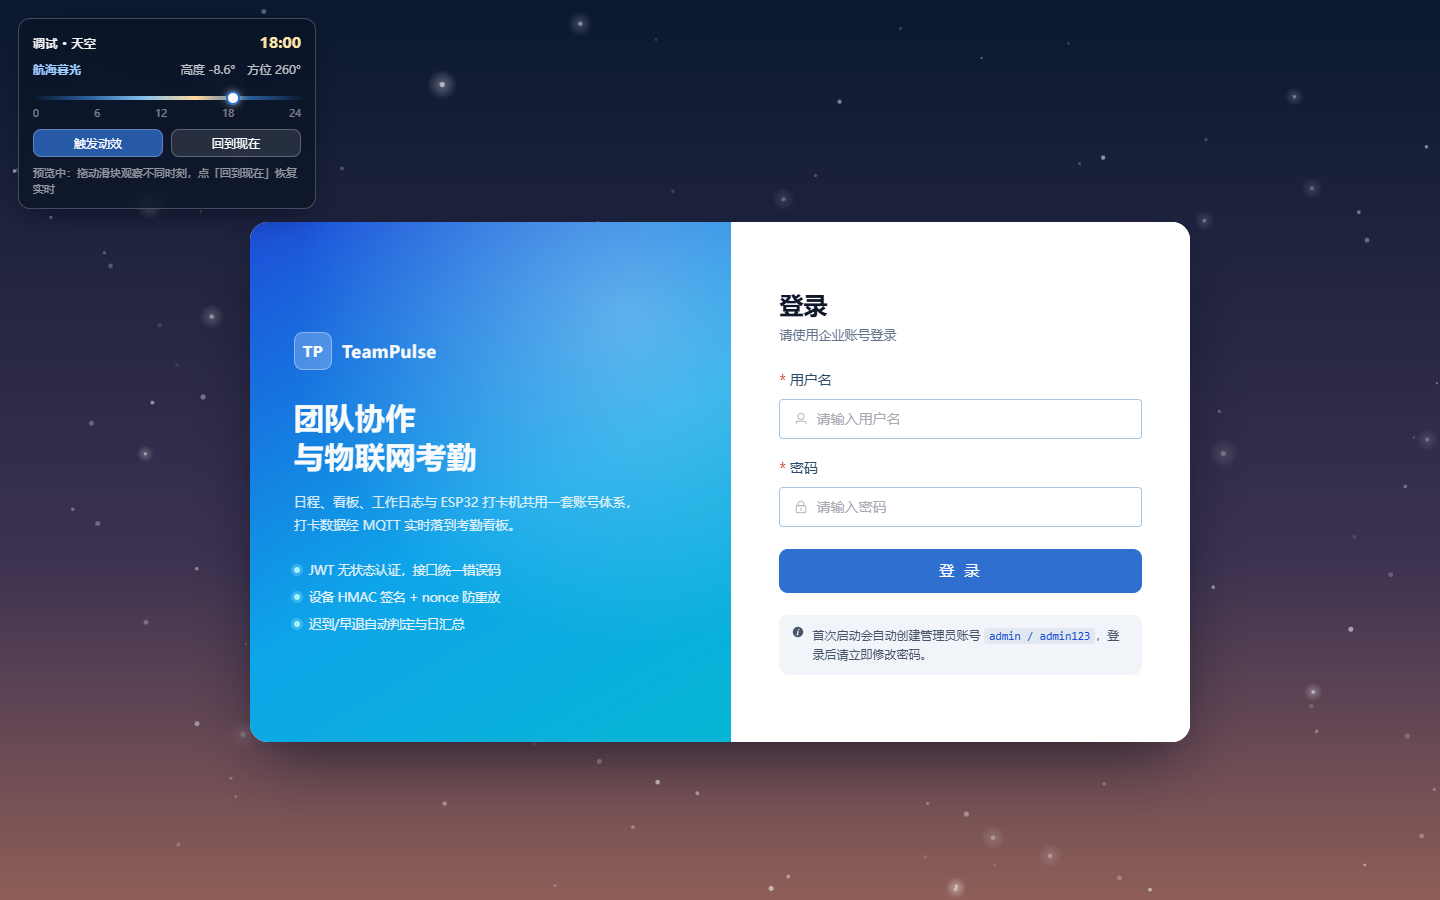
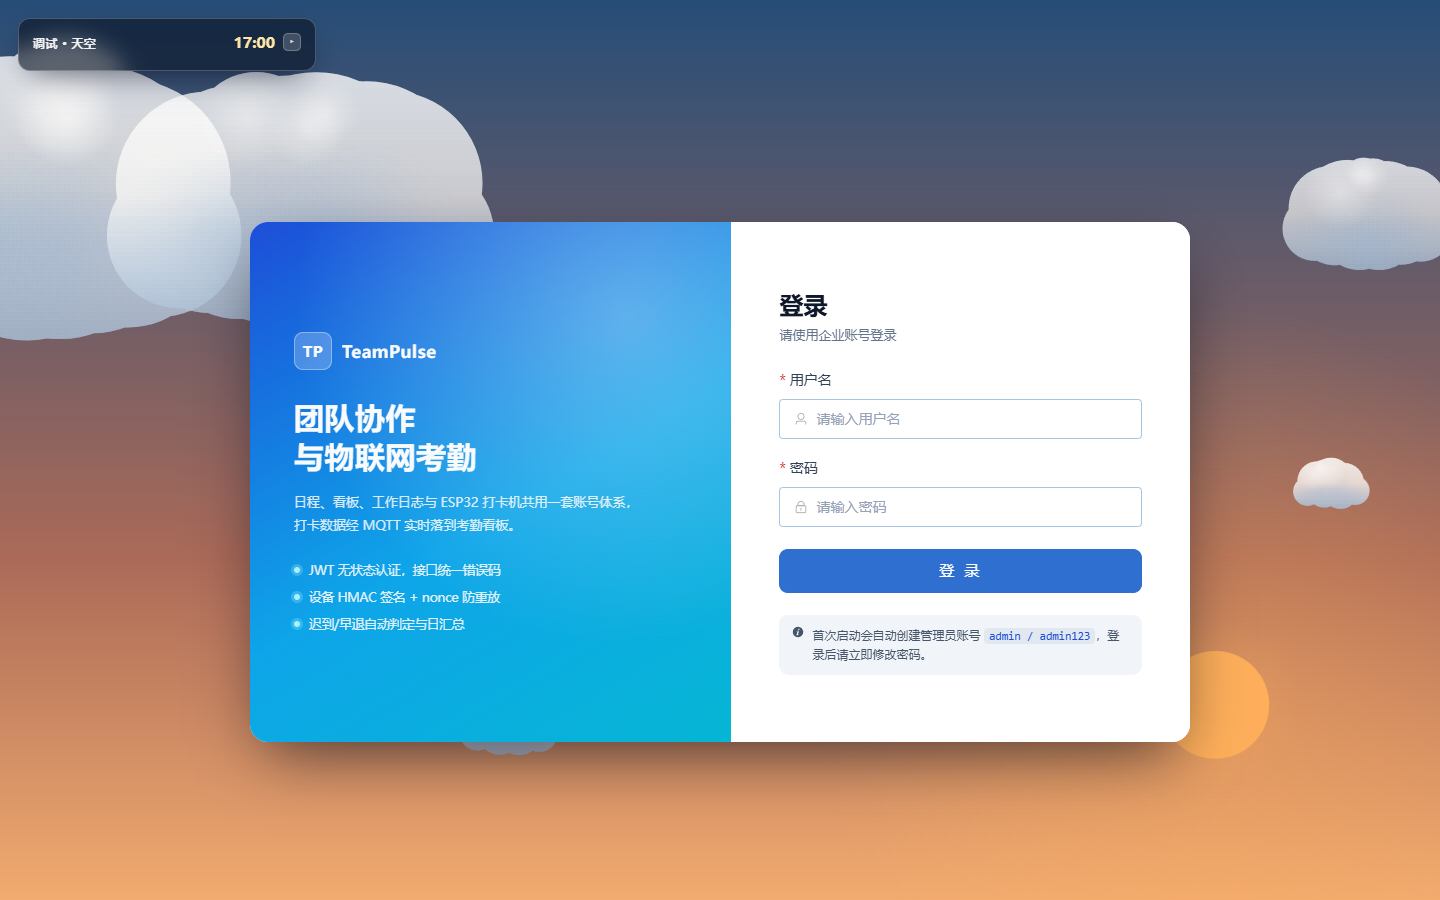
feat(login): 云按参考图重绘（多小圆 + 内部反光/阴影）；太阳与月亮走同一条圆弧
## 1. 云：动漫式积云
参考图像的特征是「一朵云由很多小圆堆成、顶部纯白、底部带蓝色天空反光与阴影」。
原来逐个小圆画径向渐变，叠出来是一团雾。现在改成**单轮廓 + 内部渐变**：

- 造型：三层小圆
    底排 4~9 个（底边齐平，形成平底）
    中排 3~8 个（错开半个间距，堆出体积）
    顶排 1~3 个「鼓包」
  尺度分三档 18~32 / 38~74 / 86~150，小云放低处当远景点缀
- 渲染（每朵云一次路径 + 三次裁剪填充）：
    ① 所有小圆合成一条 Path2D → 竖向渐变填充（上纯白 → 下浅蓝 #accbe8）
    ② clip 到轮廓内 → 底部蓝色阴影 + 顶部白色反光（天空映在高光面上）
    ③ 最大的 7 个鼓包各补一小块底部阴影，做出"一朵朵"的分离感
    ④ 顶排 3 个鼓包补高光
- 云层透明度提到 0.86~1.0，比之前更实，接近参考图

## 2. 太阳与月亮走同一条圆弧
新增 ARC + arcPos()，两颗天体共用同一组参数与同一个公式：
    纵向：高度角 → 弧上角度（42° 及以上视为弧顶），再取 0.62 次幂抬高，
          使 9~15 点的太阳落在卡片上方而不是被挡住
    横向：方位角决定偏向（东=左 / 西=右），并用「离正南多远」控制横向偏移
          （正南在中线，正东/正西到两侧最远）
实测遮挡（卡片 940×520 @ (250,222)）：
    7:00 太阳 (229,676) ✓    9:00 (498,177) ✓    12:00 (721,47) ✓
    15:00 (949,185) ✓       17:00 (1215,705) ✓
    6:00 月亮 (984,88) ✓    21:00 (399,115) ✓    0:00 (720,39) ✓
    仅 7:00 月亮 (1188,227) 与卡片右上角重叠约 2px（视觉上在角外）

## 3. 调试卡片折叠
之前固定在左上会长期挡住月亮/太阳，加了 ▾/▸ 折叠按钮，折叠后只剩标题栏。

## 验证
tests/ui/probe-arc-clouds.mjs：9 个时刻的太阳/月亮坐标与遮挡逐一检查；
tests/ui/probe-final-sky.mjs：9/12/17 点整页截图（docs/screenshots/sky-*.png）
控制台无报错。

diff --git a/frontend/src/components/LoginSky.vue b/frontend/src/components/LoginSky.vue
@@ -18,7 +18,6 @@
 <script setup>
 import { computed, onBeforeUnmount, onMounted, ref } from 'vue'
 import {
-  azimuthToX,
   beijingDateAtHour,
   beijingHour,
   cloudAlpha,
@@ -112,41 +111,54 @@ function makeStar() {
   }
 }
 
-function makeCloud() {
-  // 云的尺度分三档，避免所有云一样大
-  const tier = Math.random()
-  const base = tier < 0.34 ? rand(22, 40) : tier < 0.74 ? rand(44, 78) : rand(84, 138)
+/**
+ * 动漫式积云：用较多小圆堆出轮廓
+ *   - 沿基线的"底排"圆：底边大致齐平，形成云的平底
+ *   - 中排更大，顶排 2~3 个"鼓包"，做出顶部起伏
+ *   - 每朵云尺度不同（22~150），小的做远景点缀
+ */
+function makeCloud(tierHint) {
+  const tier = tierHint ?? Math.random()
+  const base = tier < 0.3 ? rand(18, 32) : tier < 0.68 ? rand(38, 74) : rand(86, 150)
   const hx = rand(0, width)
-  // 主要分布在上半部与两侧，避开被中间卡片挡住的位置
-  const hy = rand(height * 0.05, height * 0.46)
+  // 小云偏低（远景点缀），大云偏中上
+  const hy = tier < 0.3 ? rand(height * 0.45, height * 0.8) : rand(height * 0.06, height * 0.5)
 
-  const n = tier < 0.34 ? 4 : tier < 0.74 ? 5 : 7
   const puffs = []
-  for (let i = 0; i < n; i++) {
-    const t = i / (n - 1) - 0.5 // -0.5 .. 0.5
-    // 中间大、两侧小：这是积云最典型的轮廓
-    const k = 0.45 + 0.55 * Math.cos(t * Math.PI * 0.92)
-    const r = base * k
-    puffs.push({
-      dx: t * base * 2.05 + rand(-2, 2),
-      // 圆心高于基线，底边大致齐平
-      dy: -r * 0.5 + rand(-2, 2),
-      r,
-      // 每团云自己的透明度略有差别，叠起来才有体积感
-      a: rand(0.82, 1),
-    })
+  const cols = tier < 0.3 ? 4 : tier < 0.68 ? 6 : 9
+
+  // ① 底排
+  for (let i = 0; i < cols; i++) {
+    const t = cols === 1 ? 0 : i / (cols - 1) - 0.5
+    const k = 0.5 + 0.5 * Math.cos(t * Math.PI * 0.95) // 中间大两边小
+    const r = base * (0.42 + 0.34 * k)
+    puffs.push({ dx: t * base * 2.0 + rand(-2, 2), dy: rand(-2, 2), r })
+  }
+  // ② 中排：错开半个间距，堆出体积
+  for (let i = 0; i < cols - 1; i++) {
+    const t = (i + 0.5) / (cols - 1) - 0.5
+    const k = 0.5 + 0.5 * Math.cos(t * Math.PI * 0.9)
+    const r = base * (0.5 + 0.4 * k)
+    puffs.push({ dx: t * base * 1.7 + rand(-3, 3), dy: -base * 0.42 + rand(-3, 3), r })
+  }
+  // ③ 顶排鼓包
+  const tops = tier < 0.3 ? 1 : tier < 0.68 ? 2 : 3
+  for (let i = 0; i < tops; i++) {
+    const t = rand(-0.28, 0.28)
+    const r = base * rand(0.36, 0.6)
+    puffs.push({ dx: t * base * 1.5, dy: -base * rand(0.7, 0.95), r })
   }
 
   return {
     hx,
     hy,
-    rx: rand(70, 200),
+    rx: rand(70, 210),
     ry: rand(24, 70),
     x: hx,
     y: hy,
     vx: rand(-0.02, 0.02),
     vy: rand(-0.008, 0.008),
-    alpha: rand(0.62, 0.88),
+    alpha: rand(0.86, 1.0),
     puffs,
   }
 }
@@ -157,8 +169,13 @@ function buildStars() {
 }
 
 function buildClouds() {
-  const n = Math.max(4, Math.min(7, Math.round(width / 340)))
-  clouds = Array.from({ length: n }, makeCloud)
+  // 大云 + 远景点缀的小云，比例接近参考图
+  const big = Math.max(3, Math.min(5, Math.round(width / 420)))
+  const small = Math.max(2, Math.min(5, Math.round(width / 420)))
+  clouds = [
+    ...Array.from({ length: big }, () => makeCloud(rand(0.5, 0.95))),
+    ...Array.from({ length: small }, () => makeCloud(rand(0, 0.28))),
+  ]
 }
 
 /* ------------------------------------------------------------------ 太阳与天色 */
@@ -167,6 +184,35 @@ function currentDate() {
   return previewHour.value === null
     ? new Date()
     : beijingDateAtHour(previewHour.value)
+}
+
+/**
+ * 天体统一圆弧
+ *
+ * 需求：太阳与月亮走同一条圆弧。所以两者的屏幕位置都用同一组参数、同一个公式：
+ *   纵向上，高度角映射到 0~90°，0° 落在地平线、42° 及以上就是弧顶；
+ *   横向上，方位角决定偏向（东=左 / 西=右），并用「离正南多远」控制横向偏移：
+ *     正南（180°）在中线，正东/正西（90°/270°）到两侧最远处。
+ * 这样两颗天体的轨迹是同一个椭圆弧，只是因为各自的高度角/方位角不同而取不同位置。
+ */
+const ARC = {
+  inset: 0.06, // 左右留白，避免贴边被裁
+  horizon: 0.94, // 地平线的纵向位置
+  height: 0.9, // 弧的高度占比
+  apexAlt: 42, // 高度角达到它就算弧顶
+}
+
+function arcPos(altitude, azimuth) {
+  const u = Math.max(0, Math.min(1, altitude / ARC.apexAlt))
+  const ang = (u * Math.PI) / 2
+  const lateral = Math.max(0, Math.min(1, Math.abs(azimuth - 180) / 90))
+  const side = azimuth >= 180 ? 1 : -1
+  const halfW = 0.5 - ARC.inset
+  const xNorm = 0.5 + side * halfW * Math.cos(ang) * lateral
+  // 幂次 0.62：把中等高度角抬得更高一些，避免 9~15 点的太阳落在中间卡片后面；
+  // 低高度角（清早/傍晚）横向本来就在左右留白，纵向仍贴近地平线
+  const yNorm = ARC.horizon - ARC.height * Math.pow(Math.sin(ang), 0.62)
+  return { x: xNorm * width, y: yNorm * height }
 }
 
 function refreshSky() {
@@ -191,13 +237,11 @@ function refreshSky() {
   starsVisible = starAlpha(altitude)
   cloudsVisible = cloudAlpha(altitude)
 
-  // 屏幕坐标：方位角 → 横向（东在左、西在右，按"面朝南方看天空"的视角），高度角 → 纵向
-  // 横向内缩 6%：真实方位角会跑到 0%/100%，直接映射的话太阳月亮会被屏幕边缘切掉
-  sunX = (0.06 + 0.88 * azimuthToX(azimuth, false)) * width
-  // 45° 以上按天顶处理：这样正午（本季节约 37°）时太阳能升到卡片上方，
-  // 不会被中间的登录卡片挡住；低太阳时方位角偏东西，本来就落在左右留白里
-  const altNorm = clamp01(altitude / 42)
-  sunY = height * 0.94 - Math.pow(altNorm, 0.75) * height * 0.86
+  // 与月亮共用同一条圆弧
+  const sunPos = arcPos(altitude, azimuth)
+  sunX = sunPos.x
+  sunY = sunPos.y
+  const altNorm = clamp01(altitude / ARC.apexAlt)
   sunR = Math.max(26, Math.min(56, width * 0.032)) * (1 + (1 - altNorm) * 0.18)
 
   // ---- 月亮：位置、月相、可见度
@@ -207,8 +251,9 @@ function refreshSky() {
   const illum = moonIllumination(date)
   moonFrac = illum.fraction
   moonPhase = illum.phase
-  moonX = (0.06 + 0.88 * azimuthToX(moonAz, false)) * width
-  moonY = height * 0.94 - Math.pow(clamp01(moonAlt / 42), 0.75) * height * 0.86
+  const moonPos = arcPos(moonAlt, moonAz)
+  moonX = moonPos.x
+  moonY = moonPos.y
   moonR = sunR * 0.92
   // 高度角 < -1.5° 时落到地平线下；白天月亮仍然可见，只是被天空压暗
   const dayFactor = 1 - 0.55 * clamp01((altitude + 4) / 14)
@@ -528,57 +573,104 @@ function drawStars() {
   }
 }
 
+/**
+ * 画云：单一轮廓 + 内部渐变（这是参考图的关键）
+ *   ① 把所有小圆合成一条路径，一次性填充"上白下淡蓝"的竖向渐变
+ *   ② clip 到轮廓内，叠底部蓝色阴影 → 天空反光/明暗层次
+ *   ③ 每个大鼓包底边再补一小块阴影，做出"一朵朵"的分离感
+ *   ④ 顶部几处高光，让云顶更亮
+ */
 function drawClouds() {
   if (cloudsVisible <= 0.01) return
   const warm = clamp01((12 - sunAlt) / 14)
-  const warmColor = warm > 0.3 ? `rgba(255, 214, 170, ${warm * 0.35})` : null
+  const warmA = warm > 0.3 ? warm * 0.3 : 0
 
   for (const c of clouds) {
     const a = c.alpha * cloudsVisible
-    if (a <= 0.01) continue
+    if (a <= 0.02) continue
 
+    // ---- 轮廓 + 包围盒
+    const path = new Path2D()
+    let minX = Infinity
+    let minY = Infinity
+    let maxX = -Infinity
+    let maxY = -Infinity
     for (const p of c.puffs) {
       const px = c.x + p.dx
       const py = c.y + p.dy
-      const pa = a * p.a
-      const core = p.r * 0.9
+      path.moveTo(px + p.r, py)
+      path.arc(px, py, p.r, 0, Math.PI * 2)
+      minX = Math.min(minX, px - p.r)
+      maxX = Math.max(maxX, px + p.r)
+      minY = Math.min(minY, py - p.r)
+      maxY = Math.max(maxY, py + p.r)
+    }
+    const w = maxX - minX
+    const h = maxY - minY
 
-      // ① 实心云泡：这是"有的地方大有的地方小"的关键——每团都是独立可辨的圆
-      ctx.globalAlpha = pa
-      ctx.fillStyle = '#ffffff'
+    // ---- ① 主体：上白 → 下淡蓝
+    const gBase = ctx.createLinearGradient(0, minY, 0, maxY)
+    gBase.addColorStop(0, `rgba(255,255,255,${a})`)
+    gBase.addColorStop(0.5, `rgba(250,253,255,${a * 0.98})`)
+    gBase.addColorStop(0.78, `rgba(214,232,250,${a * 0.96})`)
+    gBase.addColorStop(1, `rgba(172,203,232,${a * 0.94})`)
+    ctx.fillStyle = gBase
+    ctx.fill(path)
+
+    // ---- ② 内部：底部蓝色阴影 + 顶部反光
+    ctx.save()
+    ctx.clip(path)
+
+    const gShadow = ctx.createLinearGradient(0, minY + h * 0.52, 0, maxY)
+    gShadow.addColorStop(0, 'rgba(150,182,220,0)')
+    gShadow.addColorStop(1, `rgba(126,166,210,${0.5 * a})`)
+    ctx.fillStyle = gShadow
+    ctx.fillRect(minX, minY, w, h)
+
+    const gSky = ctx.createLinearGradient(0, minY, 0, minY + h * 0.55)
+    gSky.addColorStop(0, `rgba(255,255,255,${0.5 * a})`)
+    gSky.addColorStop(1, 'rgba(255,255,255,0)')
+    ctx.fillStyle = gSky
+    ctx.fillRect(minX, minY, w, h * 0.55)
+
+    // ③ 每个鼓包底边的小阴影（只挑大的，控制开销）
+    const bigPuffs = [...c.puffs].sort((p, q) => q.r - p.r).slice(0, 7)
+    for (const p of bigPuffs) {
+      const px = c.x + p.dx
+      const py = c.y + p.dy + p.r * 0.55
+      const g = ctx.createRadialGradient(px, py, 0, px, py, p.r * 0.95)
+      g.addColorStop(0, `rgba(140,176,214,${0.2 * a})`)
+      g.addColorStop(1, 'rgba(140,176,214,0)')
+      ctx.fillStyle = g
       ctx.beginPath()
-      ctx.arc(px, py, core, 0, Math.PI * 2)
+      ctx.arc(px, py, p.r * 0.95, 0, Math.PI * 2)
       ctx.fill()
-      ctx.globalAlpha = 1
+    }
 
-      // ② 柔边：只在最外圈淡出，轮廓仍然清晰
-      const g = ctx.createRadialGradient(px, py, core * 0.78, px, py, p.r)
-      g.addColorStop(0, `rgba(255,255,255,${pa})`)
+    // ④ 顶排高光
+    const topPuffs = [...c.puffs].sort((p, q) => p.dy - q.dy).slice(0, 3)
+    for (const p of topPuffs) {
+      const px = c.x + p.dx - p.r * 0.15
+      const py = c.y + p.dy - p.r * 0.3
+      const g = ctx.createRadialGradient(px, py, 0, px, py, p.r * 0.8)
+      g.addColorStop(0, `rgba(255,255,255,${0.55 * a})`)
       g.addColorStop(1, 'rgba(255,255,255,0)')
       ctx.fillStyle = g
       ctx.beginPath()
-      ctx.arc(px, py, p.r, 0, Math.PI * 2)
+      ctx.arc(px, py, p.r * 0.8, 0, Math.PI * 2)
       ctx.fill()
-
-      // ③ 底部一点冷色，给云体积感（不整体加暗，保持通透）
-      const gs = ctx.createRadialGradient(px, py + core * 0.5, 0, px, py + core * 0.1, core)
-      gs.addColorStop(0, `rgba(190, 210, 230, ${pa * 0.35})`)
-      gs.addColorStop(1, 'rgba(190, 210, 230, 0)')
-      ctx.fillStyle = gs
-      ctx.beginPath()
-      ctx.arc(px, py + core * 0.2, core, 0, Math.PI * 2)
-      ctx.fill()
-
-      if (warmColor) {
-        const gt = ctx.createRadialGradient(px, py + core * 0.6, 0, px, py, p.r)
-        gt.addColorStop(0, warmColor)
-        gt.addColorStop(1, 'rgba(255,214,170,0)')
-        ctx.fillStyle = gt
-        ctx.beginPath()
-        ctx.arc(px, py, p.r, 0, Math.PI * 2)
-        ctx.fill()
-      }
     }
+
+    // 低太阳时的暖色反光
+    if (warmA > 0) {
+      const gWarm = ctx.createLinearGradient(0, minY, 0, maxY)
+      gWarm.addColorStop(0, `rgba(255,214,170,0)`)
+      gWarm.addColorStop(1, `rgba(255,214,170,${warmA * a})`)
+      ctx.fillStyle = gWarm
+      ctx.fillRect(minX, minY, w, h)
+    }
+
+    ctx.restore()
   }
 }
 
